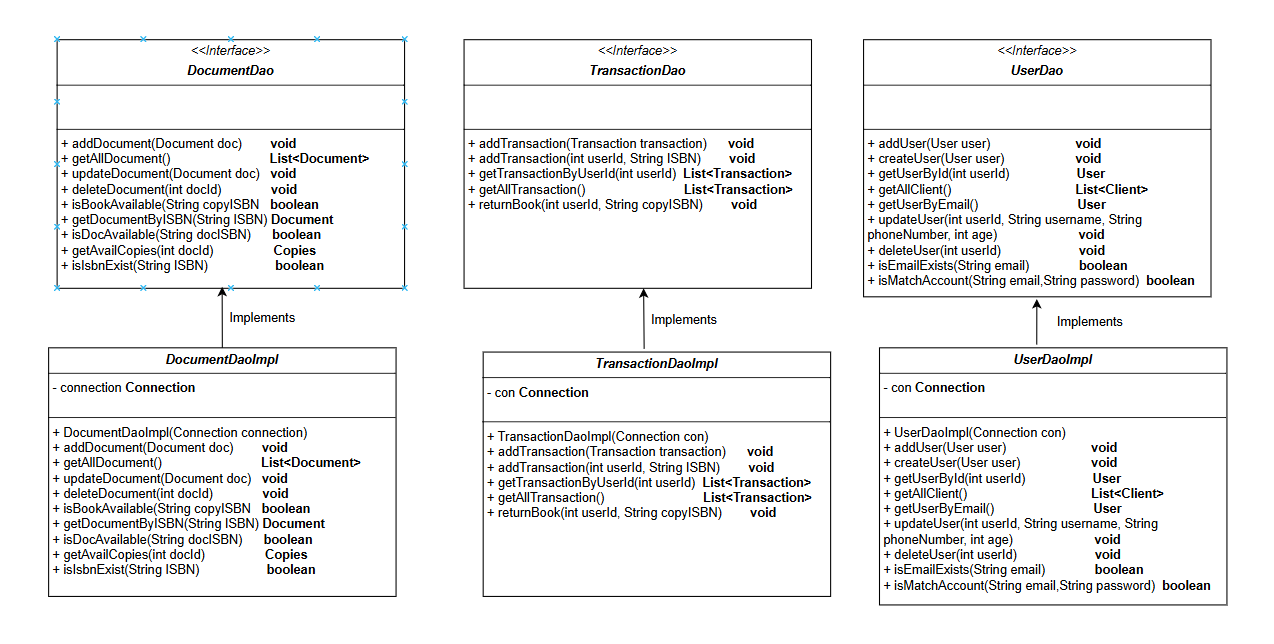
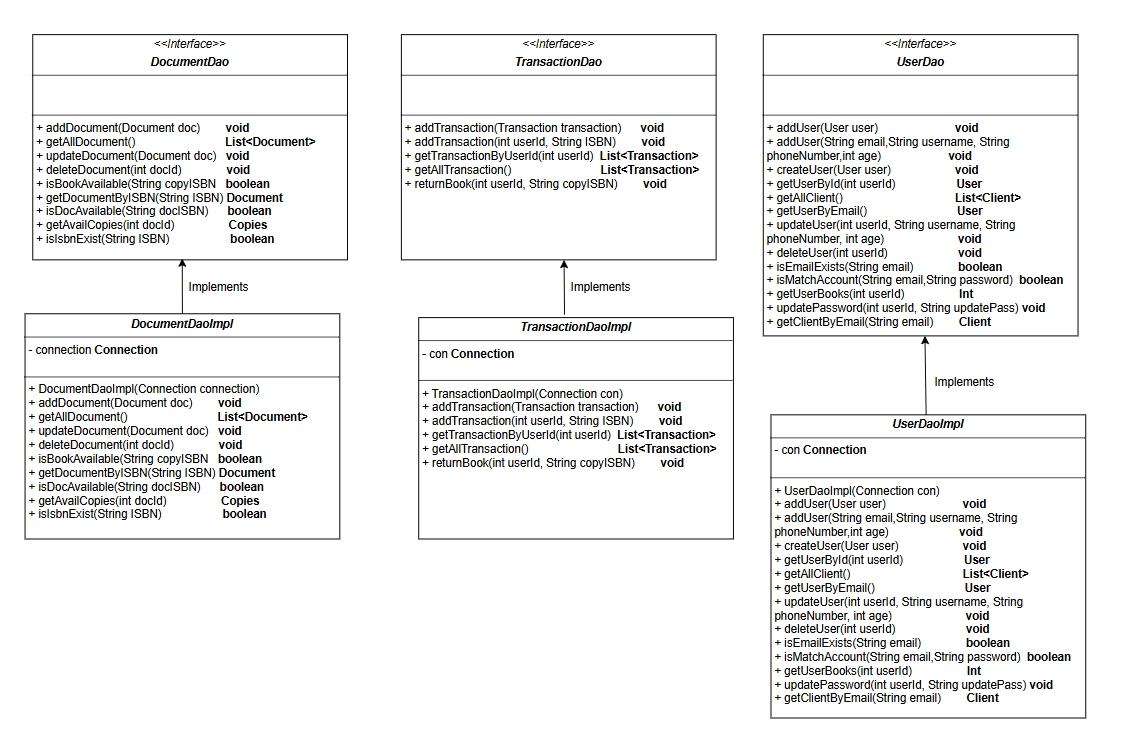
Update Readme.md file

Changed region(s): [[0.3425, 0.0311, 0.9653, 0.9938], [0.0, 0.0311, 0.3114, 0.9006], [0.6228, 0.6522, 0.6539, 0.6832]]

diff --git a/src/main/java/com/example/Service/DocumentService.java b/src/main/java/com/example/Service/DocumentService.java
@@ -37,18 +37,18 @@ public class DocumentService {
     public List<Copies> getAllCopies(int documentId){
         return documentDao.getAllCopies(documentId);
     }
-    public boolean isBookAvailable(String ISBN) {
-        return documentDao.isBookAvailable(ISBN);
+    public boolean isBookAvailable(String copyISBN) {
+        return documentDao.isBookAvailable(copyISBN);
     }
-    public Document getDocumentByISBN(String ISBN) {
-        return documentDao.getDocumentByISBN(ISBN);
+    public Document getDocumentByISBN(String docISBN) {
+        return documentDao.getDocumentByISBN(docISBN);
     }
 
     public boolean isDocAvailable(String isbn) {
         return documentDao.isDocAvailable(isbn);
     }
-    public Copies getAvailCopies(int documentId) {
-        return documentDao.getAvailCopies(documentId);
+    public Copies getAvailCopies(int docId) {
+        return documentDao.getAvailCopies(docId);
     }
 
     public boolean isIsbnExist(String isbn) {

diff --git a/src/main/java/com/example/Interface/UserDao.java b/src/main/java/com/example/Interface/UserDao.java
@@ -103,5 +103,5 @@ public interface UserDao {
      */
     void updatePassword(int userId, String updatePass);
 
-    Client getClientByEmail(String emailInput);
+    Client getClientByEmail(String email);
 }

diff --git a/README.md b/README.md
@@ -68,8 +68,9 @@ Các tính năng nổi bật của ứng dụng bao gồm:
 
 ![img.png](src/main/resources/Image/DAO-model.png)
 
+### Service
 
-
+![img.png](src/main/resources/Image/Service-model.png)
 
 
 
